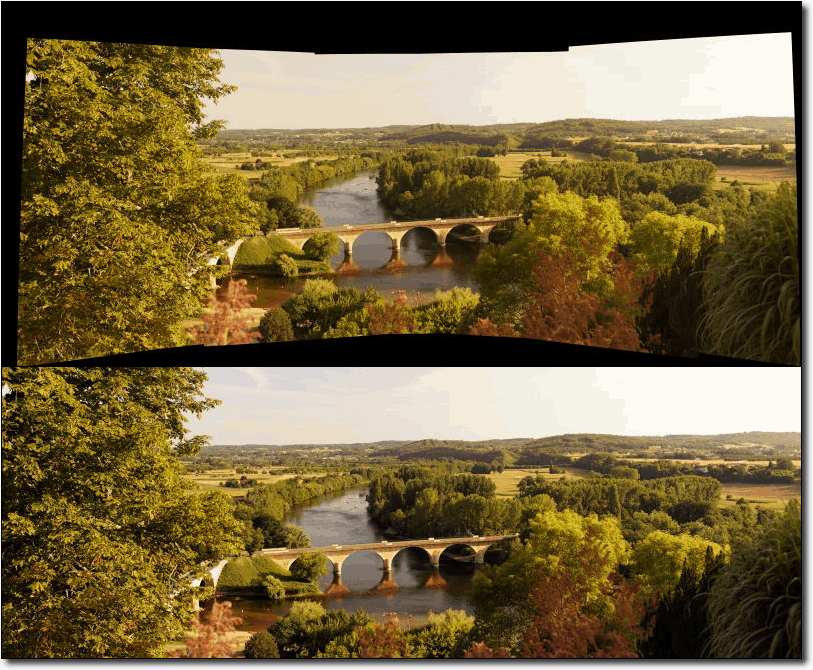
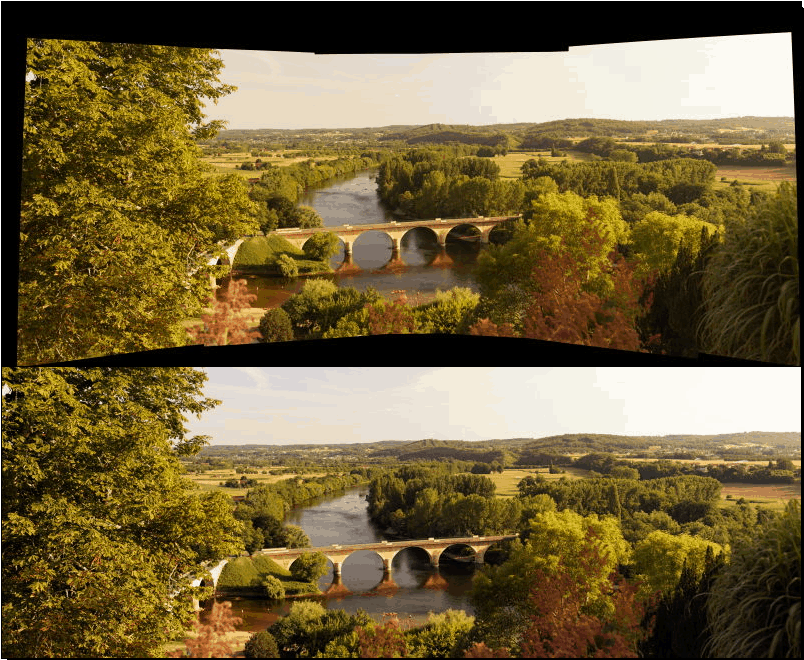
editor++

diff --git a/image_editor/transform_tools.rst b/image_editor/transform_tools.rst
@@ -23,7 +23,7 @@ Manual Crop
 
 Cropping a photograph is not only a common operation, but an often underestimated photographer's tool to compose an image. The Image Editor makes it very easy. To crop a photograph simply drag a rectangle over the image by holding down the left mouse button and moving the mouse. You will see a wire frame rectangle appear as you move the mouse. 
 
-.. figure:: images/editor_image_selection.png
+.. figure:: images/editor_crop_selection.png
 
 When you release the button the area of the photograph that will be removed by a crop operation is greyed out. This allows you to get a good view of how your photograph will look once you have cropped it. You can change the size of the cropped area by dragging the corners of the rectangle, and you can create a new crop area simply by dragging out another rectangle.
 
@@ -32,4 +32,47 @@ Once you are happy with the crop, click on the The Image Editor Crop Button butt
 .. note::
 
     The Histogram tab from the right sidebar will recompute the color statistics accordingly with the current selection on image.
+
+Auto Crop
+~~~~~~~~~
+
+The Auto Crop tool removes the borders from an image. It searches the largest possible border area that is all the same color, and then crops this area from the image, as if you had used the Crop tool.
+
+This tool can be used for example to crop a stitched panorama, assembly with many images, which generate black borders around.
+
+See below a stitched Panorama Processed With Auto Crop.
+
+.. figure:: images/editor_autocrop.png
+
+Proportional Crop
+~~~~~~~~~~~~~~~~~
+
+The Aspect Ratio Crop tool goes further. While you are editing digital images, it is often necessary to create a compatible format with, for example, your photo album or paper formats. If you print an image from your digital camera and then try to put it in your photo album, you may notice that the camera has a different width or height ratio than a normal photographic film format so you need to crop your digital images in a predefined ratio (for example 5:7 or 2:3 which is a standard photo ratio). 
+
+.. figure:: images/editor_ratio_crop.png
+
+In the preview area you can resize the cropping rectangle by moving the corners with the mouse. It will keep the ratio value set in the bottom of dialog.
+
+In the Aspect Ratio Crop tool settings, you specify the Orientation as Portrait or Landscape. Portrait will always have the larger size assigned to the Height and Landscape to the Width.
+
+Aspect Ratio Crop tool uses a relative ratio. That means it is the same if you use centimeters or inches and it doesn't specify the physical size. For example, you can see below a correspondence list of traditional photographic paper sizes and aspect ratio crop.
+
+=============================================================== =================
+Standard Photograph Paper Size                                  Aspect Ratio Crop
+=============================================================== =================
+10x15cm 20x30cm 30x45cm 3.5x5" 4x6" 8x12" 12x18" 16x24" 20x30"  2:3
+6x8cm 15x20cm 18x24cm 30x40cm 3.75x5" 4.5x6" 6x8" 7.5x10" 9x12" 3:4
+20x25cm 40x50cm 8x10" 16x20"                                    4:5
+15x21cm 30x42cm 5x7"                                            5:7
+21x30cm 42x60cm                                                 7:10
+=============================================================== =================
+
+At the far right of the dialog two buttons are available to move the crop selection automatically to the horizontal or vertical center of the image.
+
+At the very bottom line of the dialog, the Max. Ratio button lets you set the crop area size to the maximum size according to the current aspect ratio settings and orientation.
+
+.. note::
+
+    The Aspect Ratio Crop tool remembers the settings depending on image orientation (horizontal or vertical). When you use the crop tool next time, these settings will be used as default values depending on the image orientation. The changed image dimensions are stored into the EXIF tables so that the EXIF data reflects the cropped image and not the original one.
+
 
